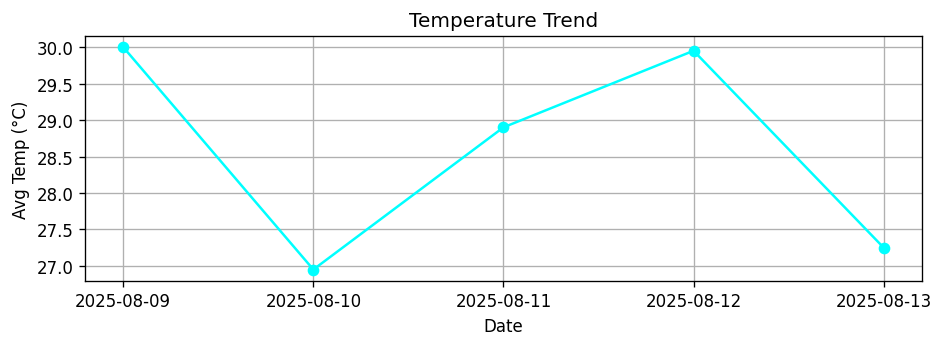
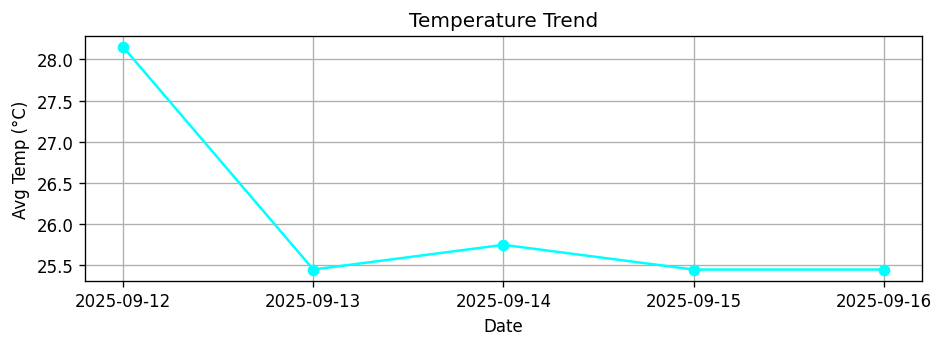
yes

diff --git a/Smart Weather App/config.py b/Smart Weather App/config.py
@@ -1,5 +1,5 @@
-OPENWEATHER_API_KEY = "Your API Key"
-VISUALCROSSING_API_KEY = "Your API Key"
-COHERE_API_KEY = "Your API Key"
-LASTFM_API_KEY = "Your API Key"
+OPENWEATHER_API_KEY = "61e13425c7b75d214accf269f1a6e121"
+VISUALCROSSING_API_KEY = "PXSE9WWPXNVA7HUFZRVCPE62Q"
+COHERE_API_KEY = "8EIgT1FoN1hxs9q7kgoNYZhpRMyhFT4wbfJj8ANH"
+LASTFM_API_KEY = "a00ab97ef4e945086b3c9b7007b8cac6"
 
